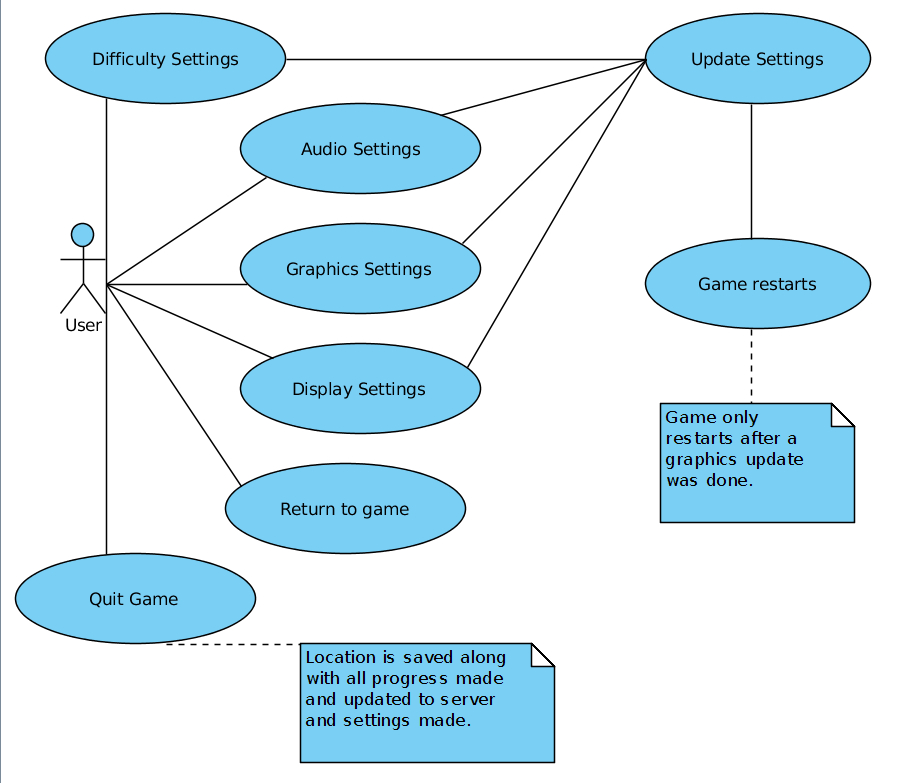
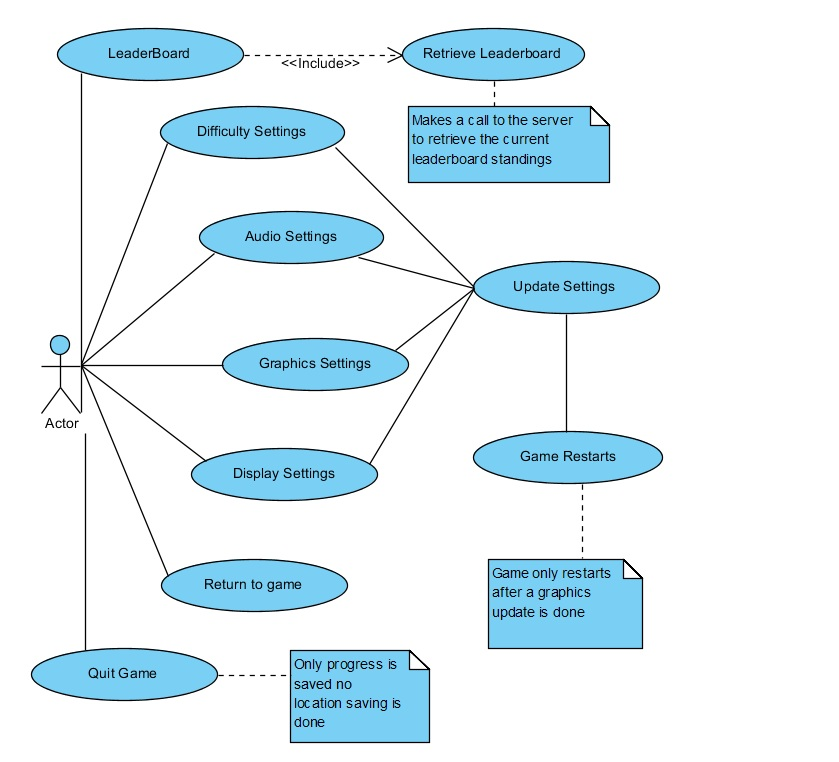
Added Diagram changes

diff --git a/Documentation/Functional requirements and application design.tex b/Documentation/Functional requirements and application design.tex
@@ -144,6 +144,7 @@
 			22/08/2014  \> Version 2.0  \> Added unit testing code documentation.		\> Martin Schoeman\\
 			10/08/2014	\> Version 2.0	\> Added game activity diagram					\> Nico Taljaard\\
 			11/092014	\> Version 3.0	\> Updated scene sequence diagram				\> Nico Taljaard\\
+			11/092014	\> Version 3.0	\> Updated the user-interface diagrams and pre and post conditions			\> Gerhard Smit\\
 		\end{tabbing}
 		
 	\newpage
@@ -458,6 +459,40 @@
 						\item Post-Condition: \\
 							Graphics settings are displayed. \\
 							Previous choices must be already ticked. \\
+						\item Request and Results Data Structures \\
+						
+					\end{itemize}
+									
+				\vspace{0.1in}Display Settings tab
+					\begin{itemize}
+						\item Pre-Condition: \\
+							Options Menu must be open. \\
+							Display settings must be selected. \\
+						\item Post-Condition: \\
+							Display settings are displayed. \\
+						\item Request and Results Data Structures \\
+						
+					\end{itemize}
+									
+				\vspace{0.1in}Audio Settings tab
+					\begin{itemize}
+						\item Pre-Condition: \\
+							Options Menu must be open. \\
+							Audio settings must be selected. \\
+						\item Post-Condition: \\
+							Audio settings are displayed. \\
+							Previous volumes must be loaded. \\
+						\item Request and Results Data Structures \\
+						
+					\end{itemize}
+									
+				\vspace{0.1in}Leaderboard tab
+					\begin{itemize}
+						\item Pre-Condition: \\
+							Options Menu must be open. \\
+							Leaderboard must be selected. \\
+						\item Post-Condition: \\
+							Leaderboard is displayed. \\
 						\item Request and Results Data Structures \\
 						
 					\end{itemize}									
